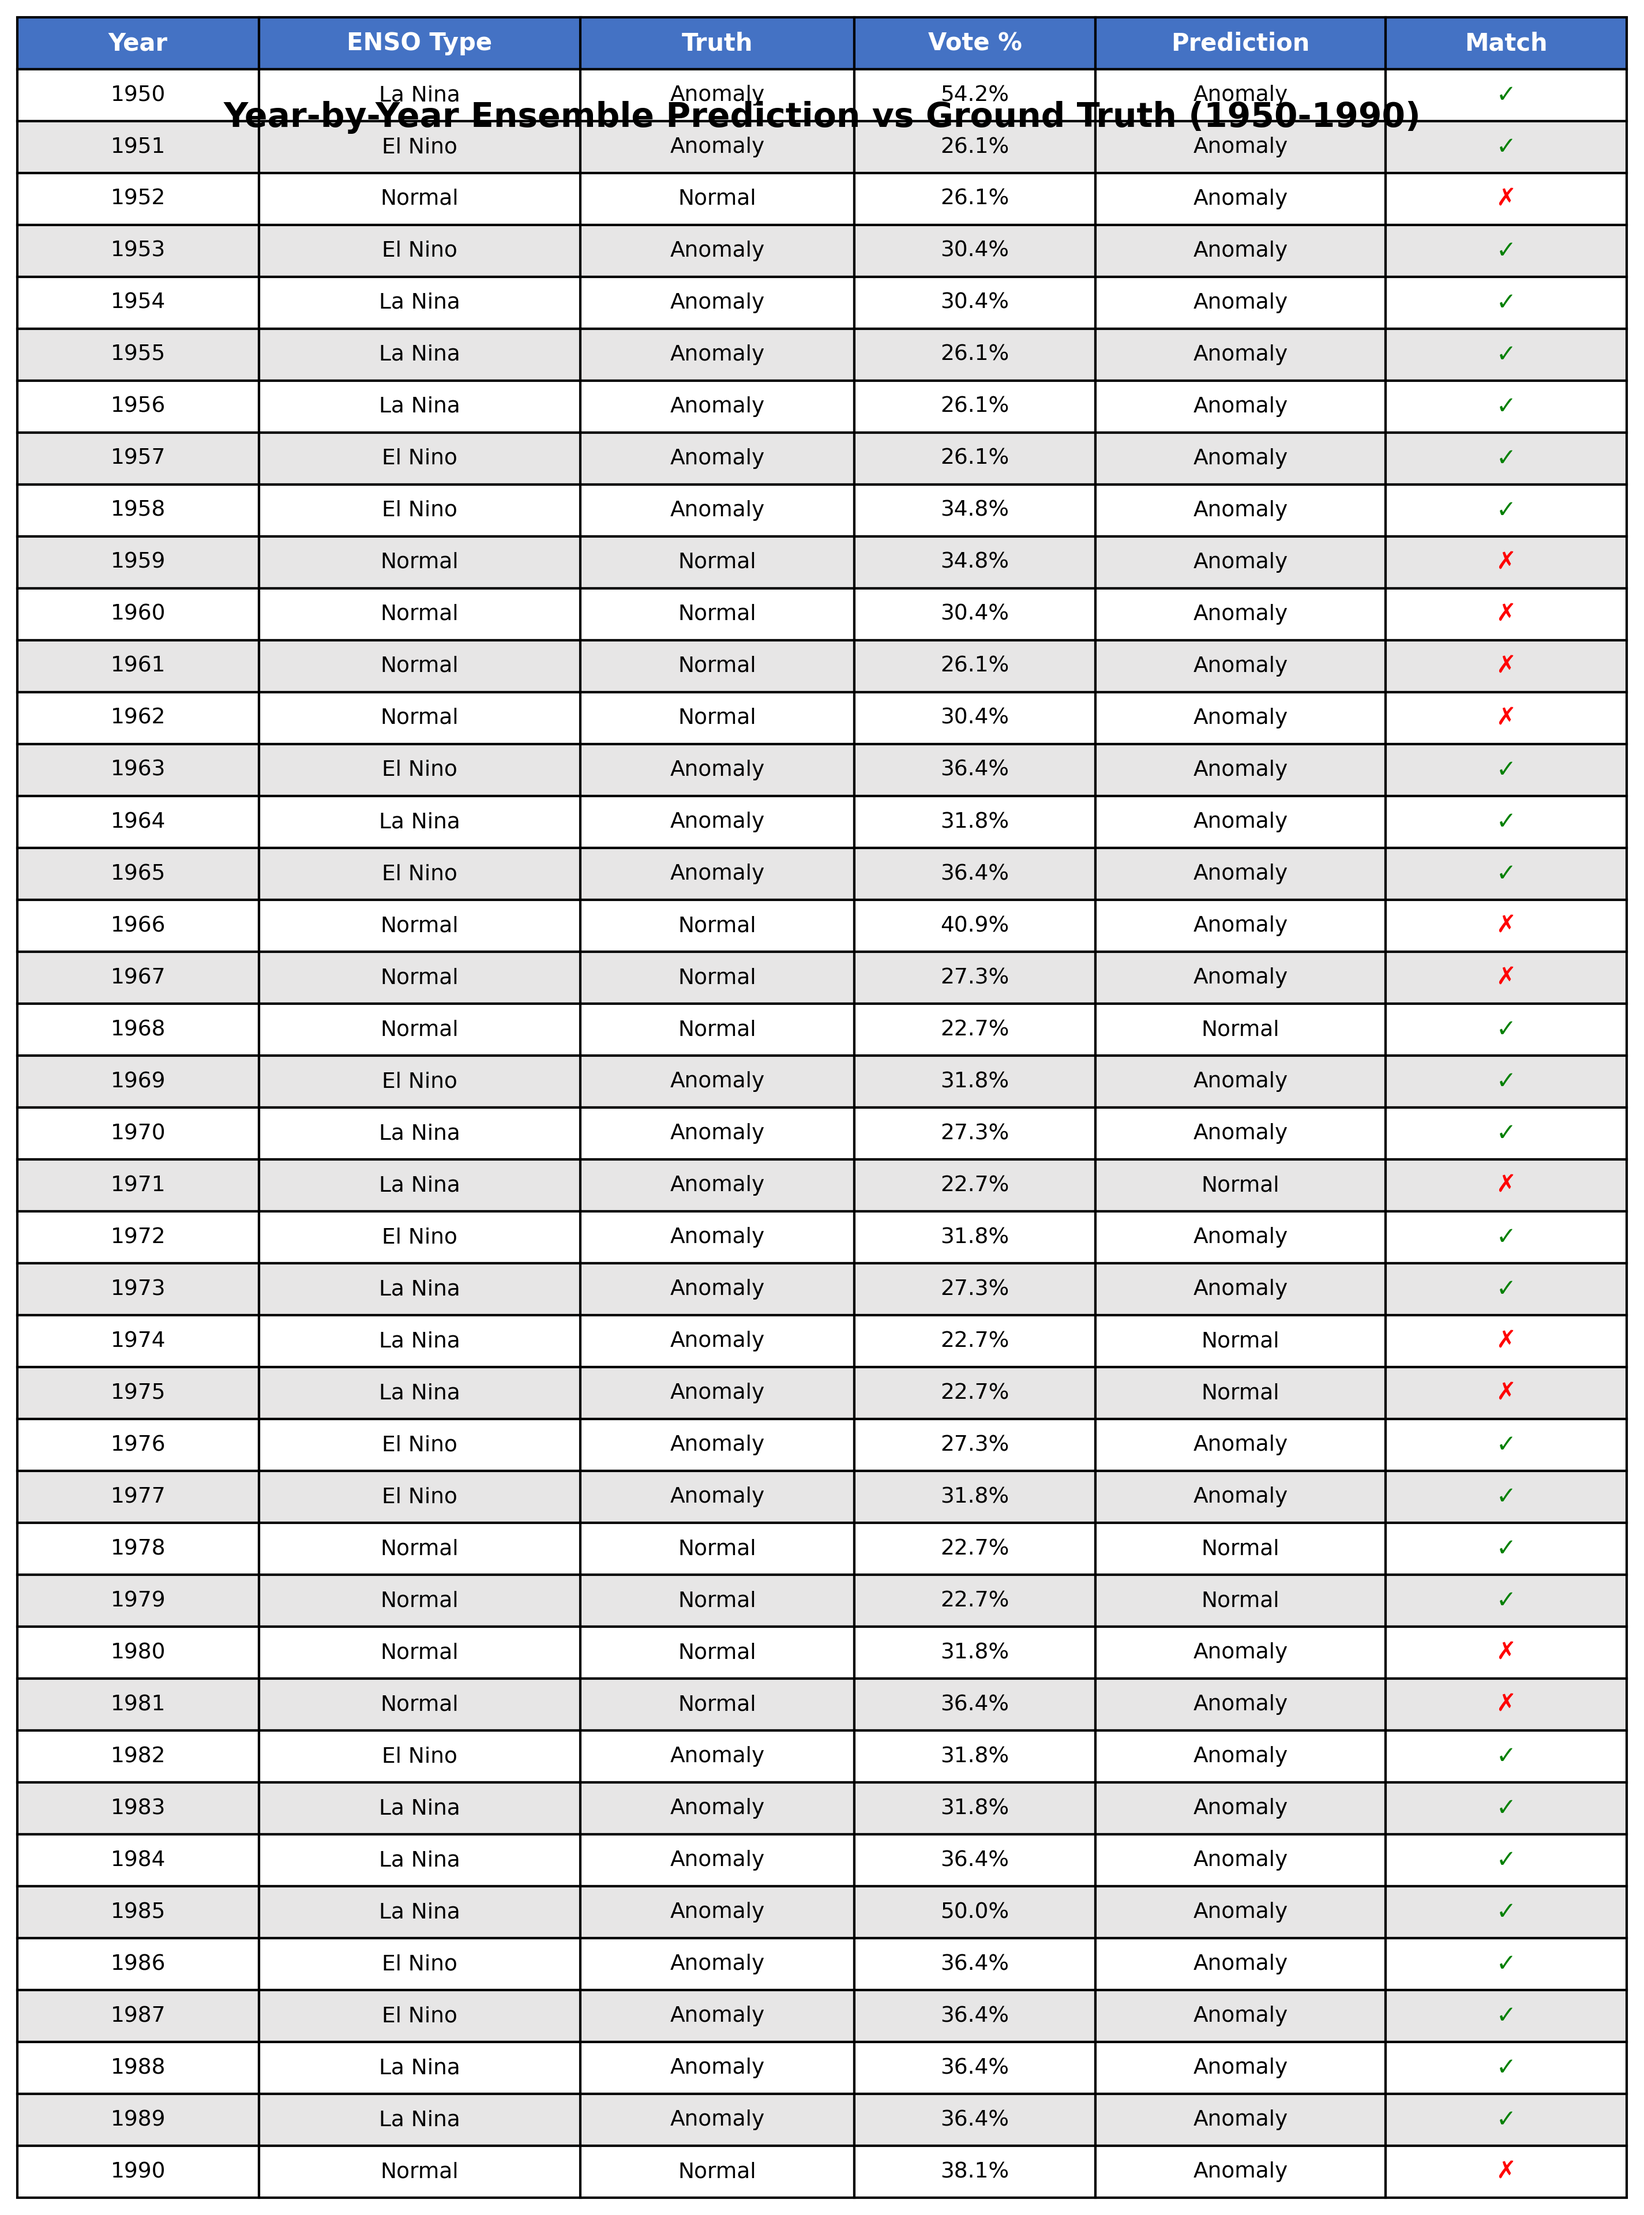
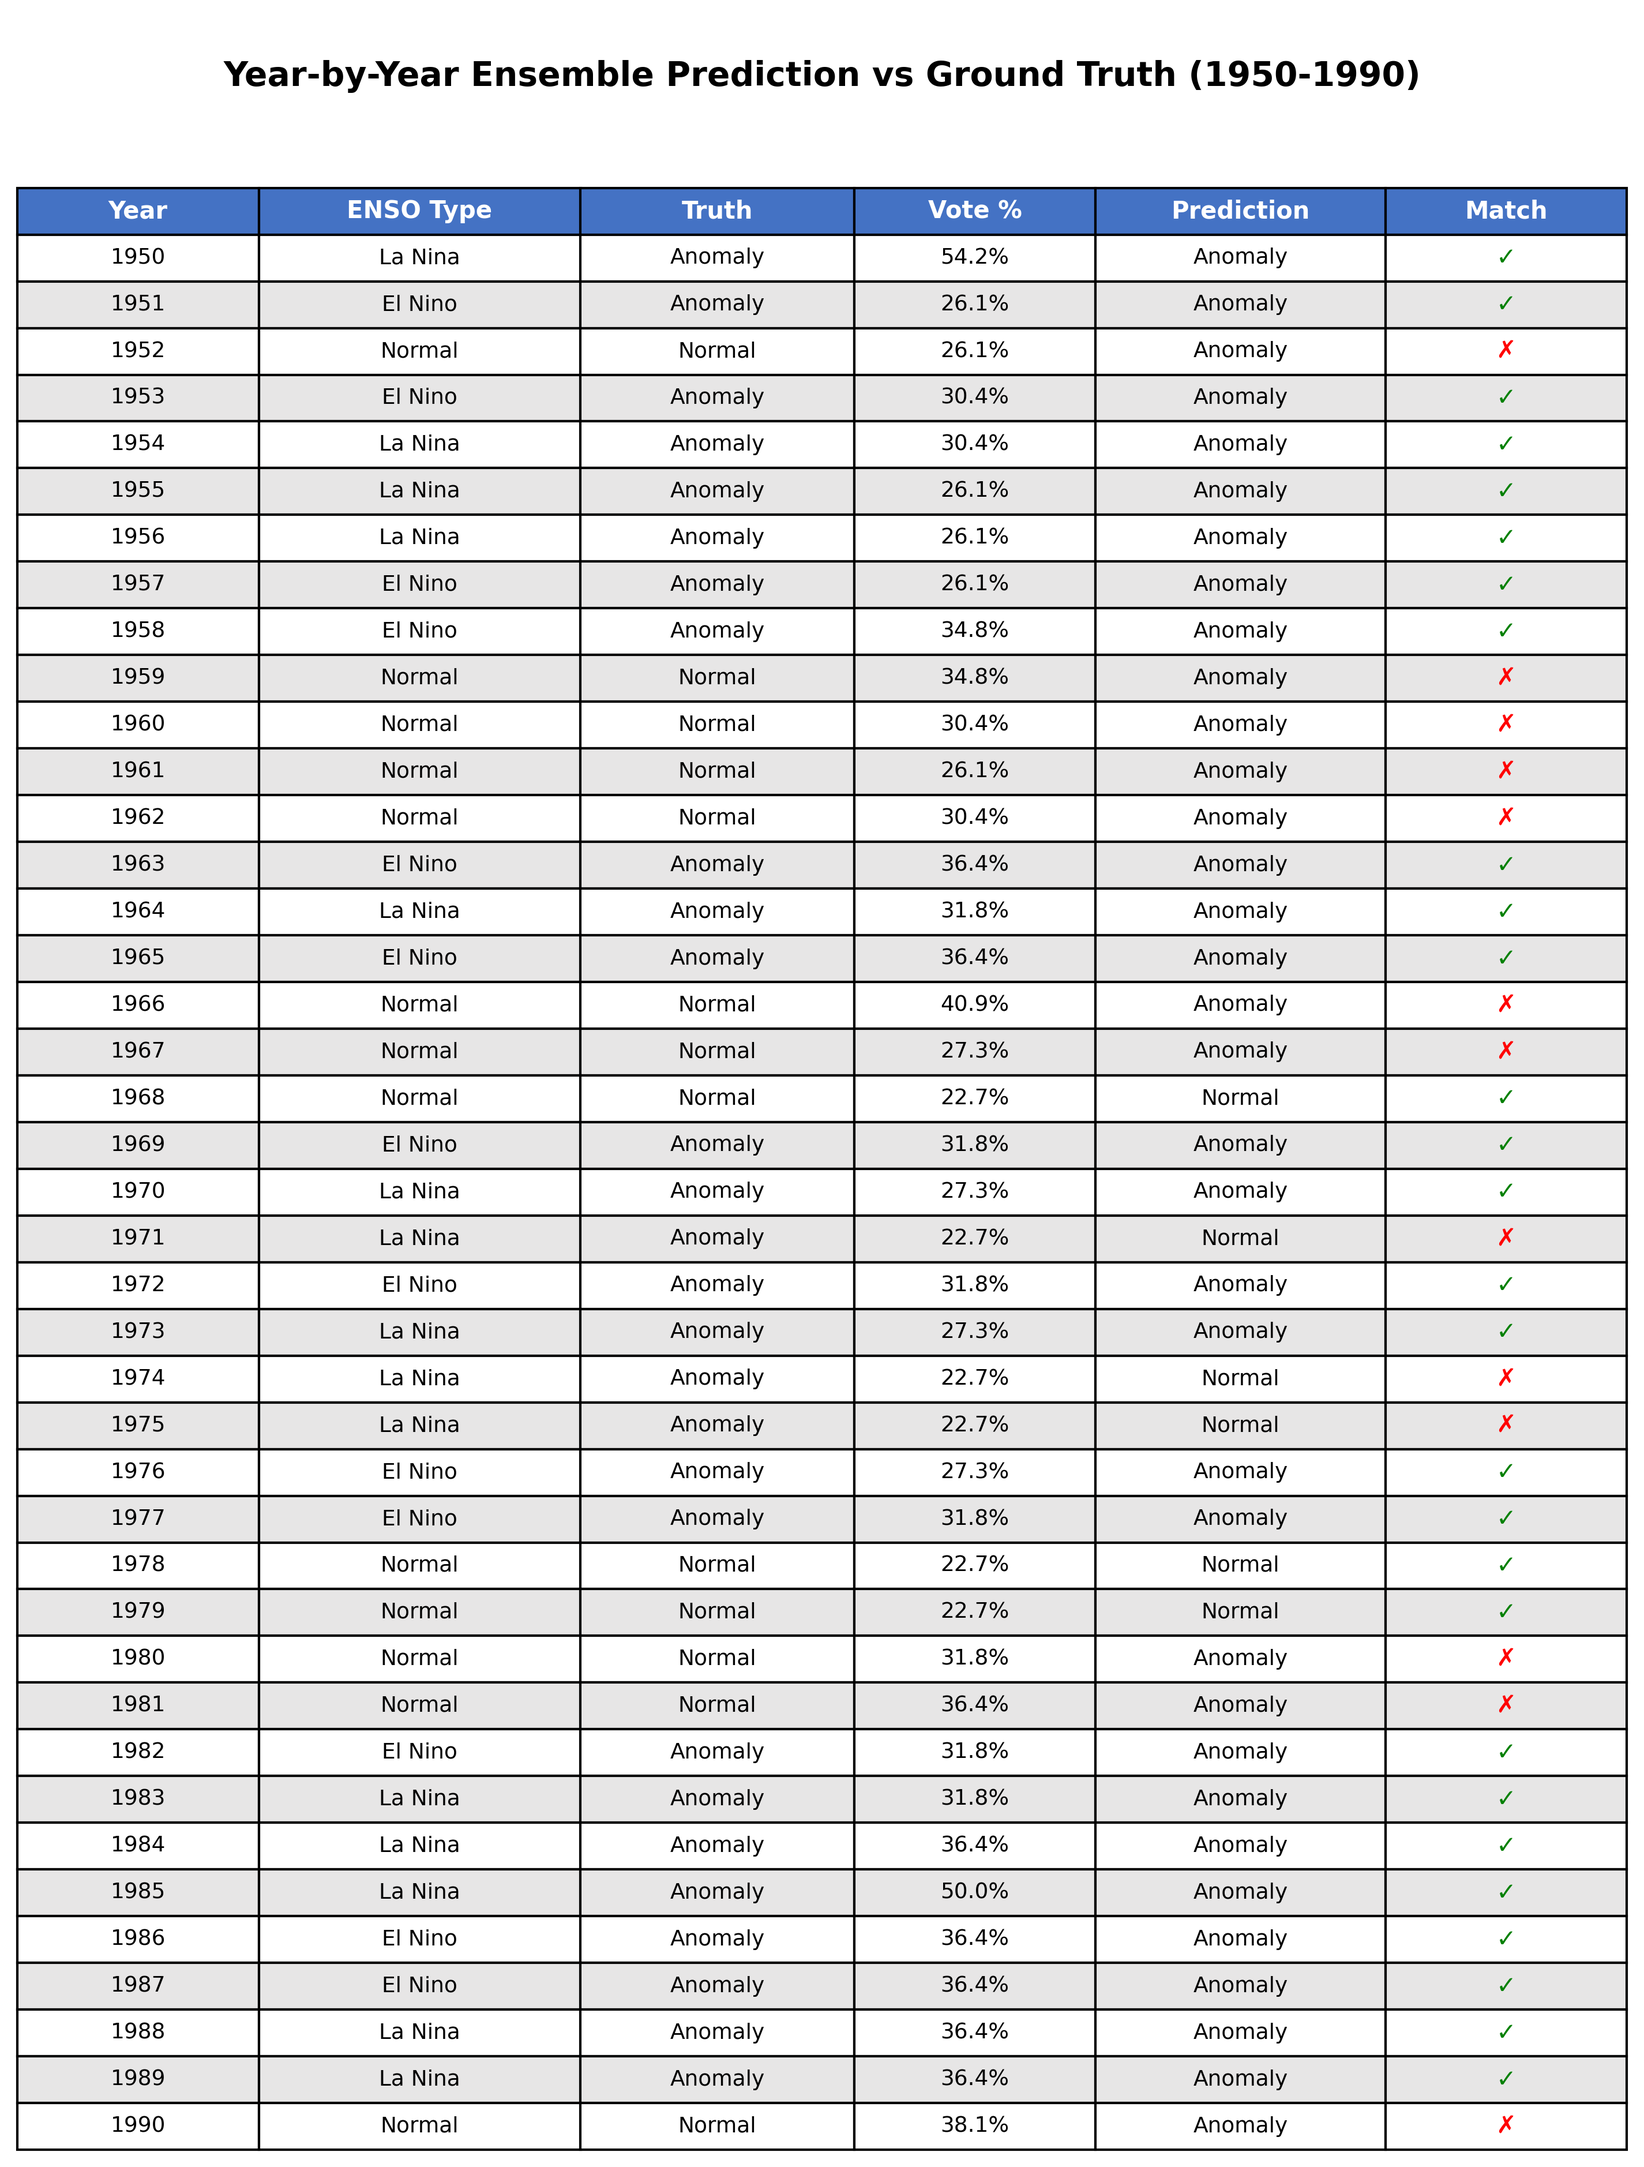
Fix table title overlap in detailed comparison figure
- Increased figure height from 14 to 16 inches
- Changed table position to 'upper center' with bbox adjustment
- Moved title to ax.text with better positioning (y=0.98)
- Now title has proper spacing above the table

diff --git a/Categorical_HMM/ensemble/plot_ensemble_voting.py b/Categorical_HMM/ensemble/plot_ensemble_voting.py
@@ -125,7 +125,7 @@ print("✓ Saved: ensemble_voting_enso_analysis.png")
 # ============================================================================
 # Create detailed comparison table visualization
 # ============================================================================
-fig2, ax = plt.subplots(figsize=(12, 14))
+fig2, ax = plt.subplots(figsize=(12, 16))
 ax.axis('tight')
 ax.axis('off')
 
@@ -146,9 +146,10 @@ for idx, row in df.iterrows():
     
     table_data.append([year, enso_type, truth, vote_pct, prediction, match])
 
-# Create table
-table = ax.table(cellText=table_data, cellLoc='center', loc='center',
-                colWidths=[0.15, 0.20, 0.17, 0.15, 0.18, 0.15])
+# Create table - position it lower in the figure
+table = ax.table(cellText=table_data, cellLoc='center', loc='upper center',
+                colWidths=[0.15, 0.20, 0.17, 0.15, 0.18, 0.15],
+                bbox=[0, 0, 1, 0.92])
 
 table.auto_set_font_size(False)
 table.set_fontsize(9)
@@ -176,8 +177,10 @@ for i in range(1, len(table_data)):
         elif j == 5 and table_data[i][5] == '✓':
             cell.set_text_props(color='green', weight='bold', fontsize=10)
 
-plt.title('Year-by-Year Ensemble Prediction vs Ground Truth (1950-1990)', 
-          fontsize=14, fontweight='bold', pad=20)
+# Add title with more space above the table
+ax.text(0.5, 0.98, 'Year-by-Year Ensemble Prediction vs Ground Truth (1950-1990)', 
+        ha='center', va='top', fontsize=14, fontweight='bold', 
+        transform=ax.transAxes)
 
 plt.savefig('ensemble_voting_detailed_comparison.png', dpi=300, bbox_inches='tight')
 print("✓ Saved: ensemble_voting_detailed_comparison.png")
